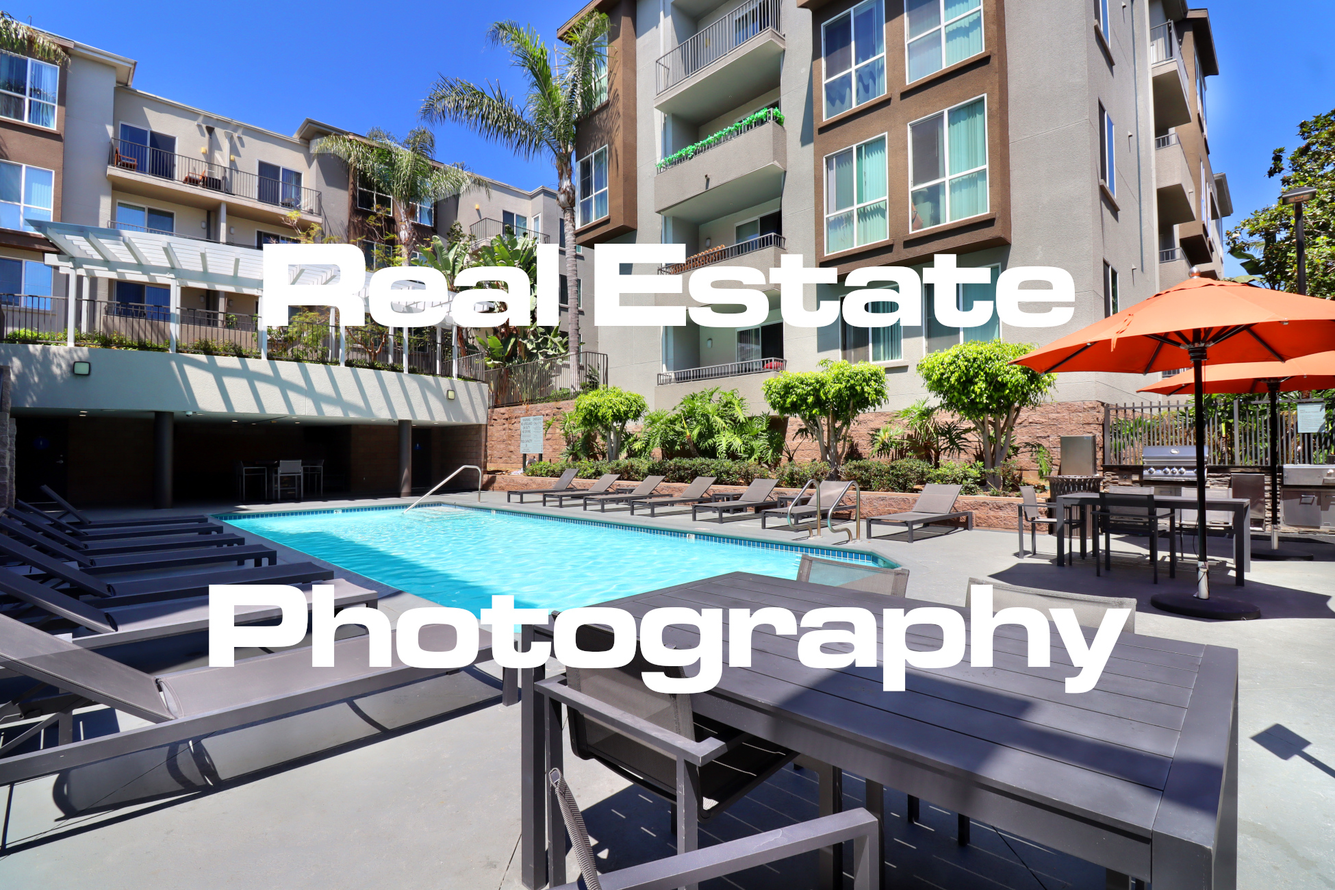
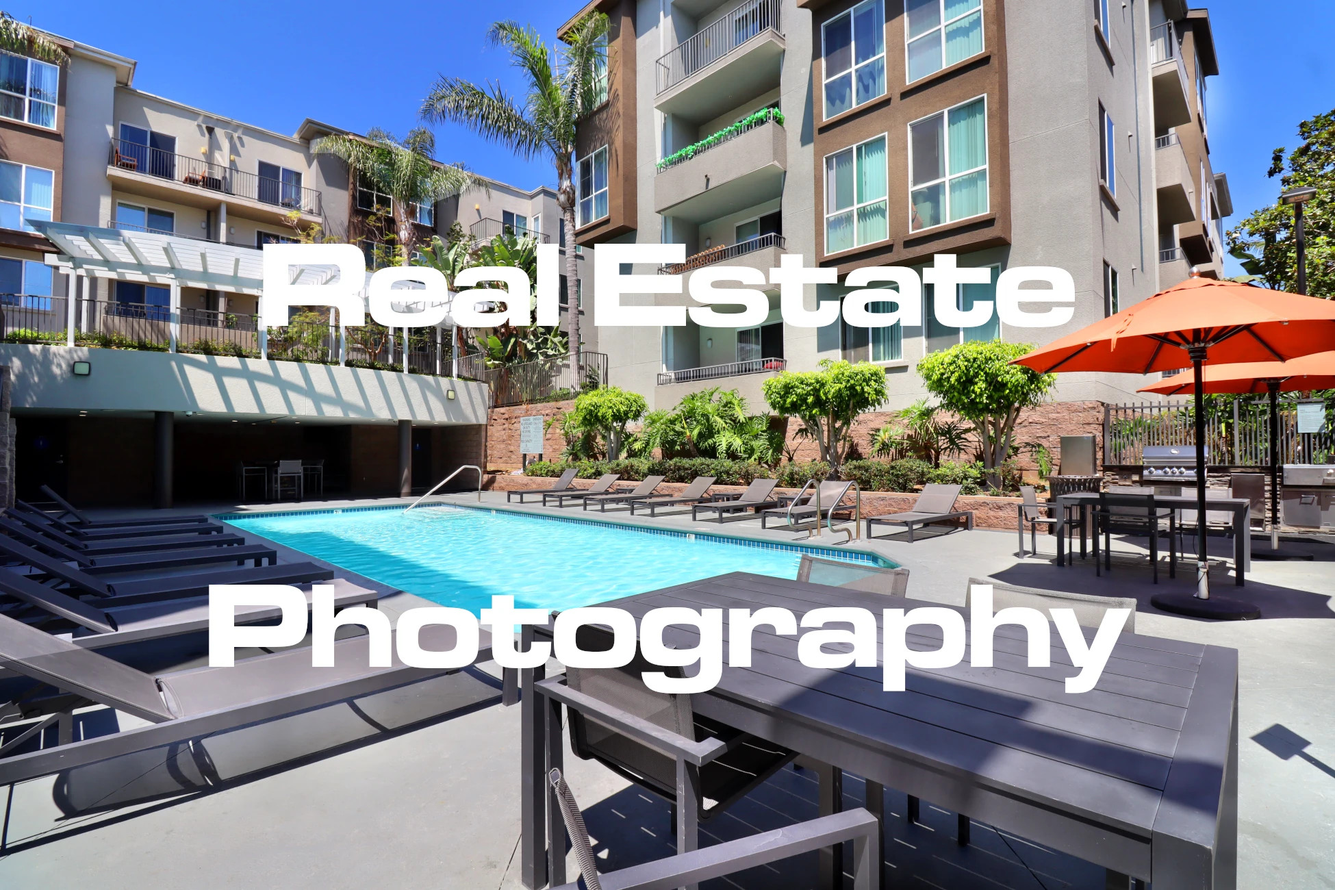
CHanged image

diff --git a/frontend/pages/index.tsx b/frontend/pages/index.tsx
@@ -57,7 +57,7 @@ const Demo3: NextPage<Props> = (props) => {
   const serviceVideo: string = props.video.data.attributes.title;
   console.log('url', HOST_URL + '/img/rose1200.jpg');
   console.log('url', HOST_URL + '/img/custom/pool-text.webp');
-  const ogImage = HOST_URL + '/img/custom/pool-text.webp';
+  const ogImage = HOST_URL + '/img/custom/pool-text.jpg';
   const ogImage2 = HOST_URL + '/img/custom/lighthouse.jpg';
   const ogImage3 = HOST_URL + '/img/custom/pool-text.jpg';
   const ogImage4 = HOST_URL + '/img/house_st2.jpg';
@@ -81,7 +81,7 @@ const Demo3: NextPage<Props> = (props) => {
               width: 1200,
               height: 800,
               alt: 'Angara Lab LLC First Image',
-              type: 'image/webp'
+              type: 'image/jpeg'
             },
             {
               url: ogImage2,
